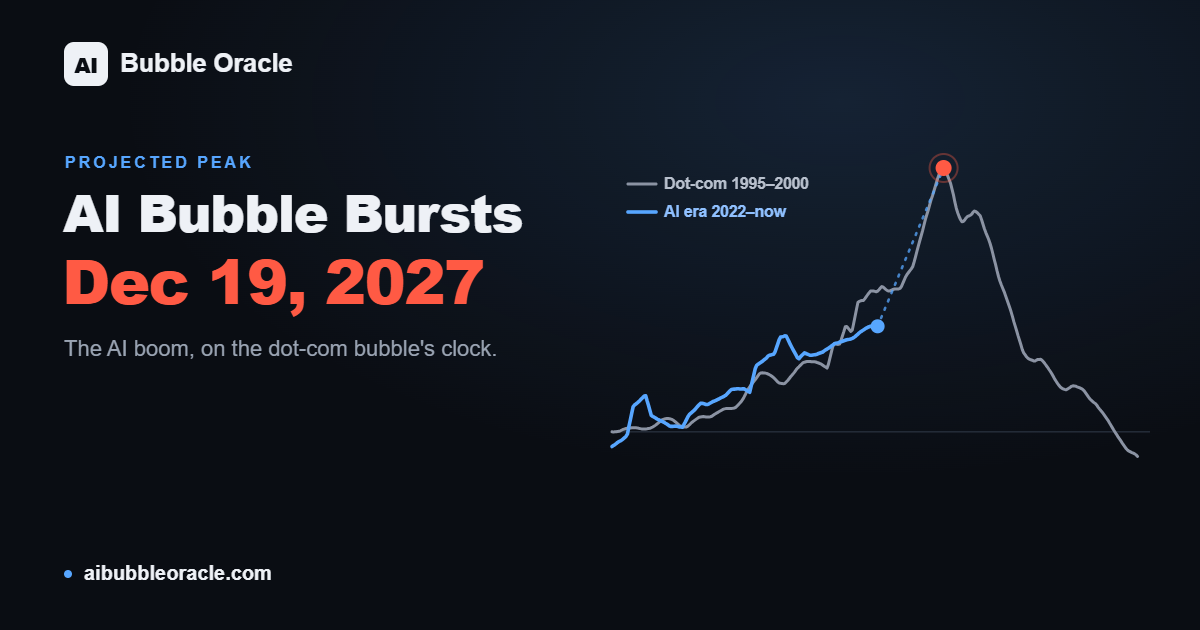
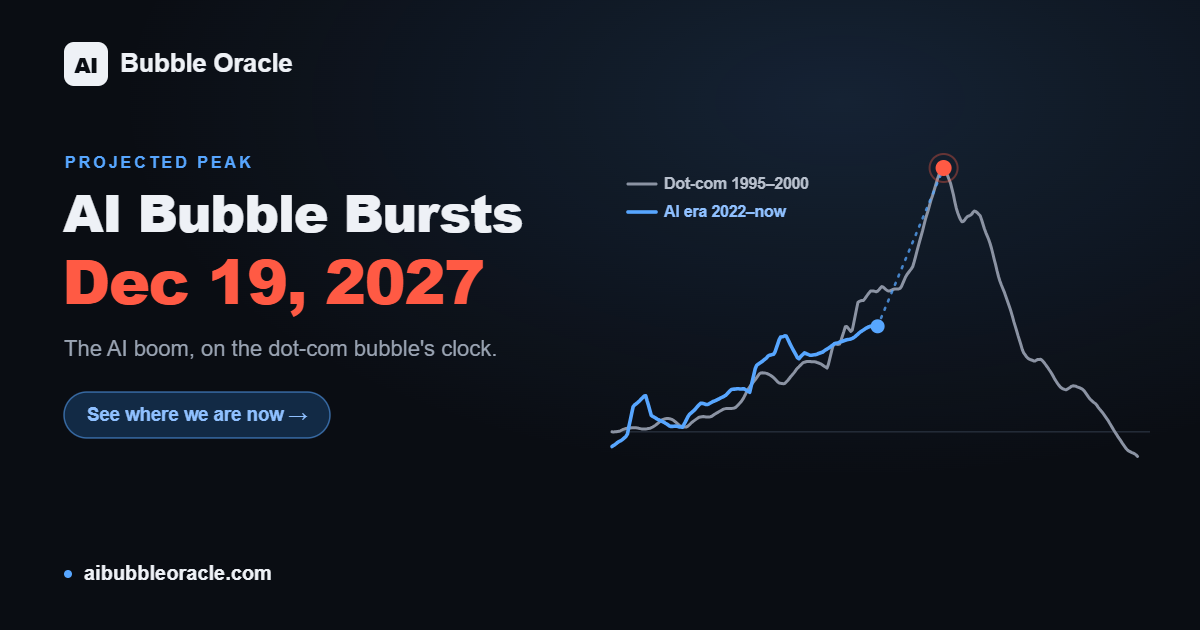
Trim over-length meta tags + add a call-to-action to the share card
opengraph.xyz flagged the landing page's title (65ch) and descriptions
(173/176ch) as truncation-prone. Shorten to safe lengths:
- title 65 -> 51 ("AI Bubble Oracle: the dot-com clock for the AI boom")
- meta description 173 -> 137
- og/twitter description 176 -> 103 ("...When does the analogy peak?")

Add a "See where we are now" CTA pill to og-card.py so the shared image has
an explicit call-to-action (the inspector's fourth note). Regenerated
og-image.png.

verify-pages and check green.

Changed region(s): [[0.0308, 0.6032, 0.2775, 0.7238]]

diff --git a/oracle/thennow_template.html b/oracle/thennow_template.html
@@ -3,12 +3,12 @@
 <head>
 <meta charset="utf-8">
 <meta name="viewport" content="width=device-width, initial-scale=1">
-<title>AI Bubble Oracle: Then and Now, the dot-com clock for the AI boom</title>
-<meta name="description" content="A transparent, reproducible comparison of the AI boom to the dot-com bubble, across valuation, concentration, capex, and monetary signals, projecting when the analogy peaks.">
+<title>AI Bubble Oracle: the dot-com clock for the AI boom</title>
+<meta name="description" content="A transparent, reproducible comparison of the AI boom to the dot-com bubble across valuation, concentration, capex, and monetary signals.">
 <meta property="og:type" content="website">
 <meta property="og:site_name" content="AI Bubble Oracle">
 <meta property="og:title" content="Is the AI boom the dot-com bubble again?">
-<meta property="og:description" content="A transparent, reproducible comparison of the AI boom to the dot-com bubble. Twelve market signals, measured the same way across both cycles, projecting when the analogy peaks.">
+<meta property="og:description" content="The AI boom vs the dot-com bubble, tracked the same way across both cycles. When does the analogy peak?">
 <meta property="og:url" content="https://aibubbleoracle.com/">
 <link rel="canonical" href="https://aibubbleoracle.com/">
 <meta property="og:image" content="https://aibubbleoracle.com/og-image.png">
@@ -19,7 +19,7 @@
 <meta name="twitter:site" content="@BigBandaid2">
 <meta name="twitter:creator" content="@BigBandaid2">
 <meta name="twitter:title" content="Is the AI boom the dot-com bubble again?">
-<meta name="twitter:description" content="Twelve market signals, measured the same way across both cycles, projecting when the dot-com analogy peaks.">
+<meta name="twitter:description" content="The AI boom vs the dot-com bubble, tracked the same way across both cycles. When does the analogy peak?">
 <meta name="twitter:image" content="https://aibubbleoracle.com/og-image.png">
 <style>
   :root {

diff --git a/thennow.html b/thennow.html
@@ -3,12 +3,12 @@
 <head>
 <meta charset="utf-8">
 <meta name="viewport" content="width=device-width, initial-scale=1">
-<title>AI Bubble Oracle: Then and Now, the dot-com clock for the AI boom</title>
-<meta name="description" content="A transparent, reproducible comparison of the AI boom to the dot-com bubble, across valuation, concentration, capex, and monetary signals, projecting when the analogy peaks.">
+<title>AI Bubble Oracle: the dot-com clock for the AI boom</title>
+<meta name="description" content="A transparent, reproducible comparison of the AI boom to the dot-com bubble across valuation, concentration, capex, and monetary signals.">
 <meta property="og:type" content="website">
 <meta property="og:site_name" content="AI Bubble Oracle">
 <meta property="og:title" content="Is the AI boom the dot-com bubble again?">
-<meta property="og:description" content="A transparent, reproducible comparison of the AI boom to the dot-com bubble. Twelve market signals, measured the same way across both cycles, projecting when the analogy peaks.">
+<meta property="og:description" content="The AI boom vs the dot-com bubble, tracked the same way across both cycles. When does the analogy peak?">
 <meta property="og:url" content="https://aibubbleoracle.com/">
 <link rel="canonical" href="https://aibubbleoracle.com/">
 <meta property="og:image" content="https://aibubbleoracle.com/og-image.png">
@@ -19,7 +19,7 @@
 <meta name="twitter:site" content="@BigBandaid2">
 <meta name="twitter:creator" content="@BigBandaid2">
 <meta name="twitter:title" content="Is the AI boom the dot-com bubble again?">
-<meta name="twitter:description" content="Twelve market signals, measured the same way across both cycles, projecting when the dot-com analogy peaks.">
+<meta name="twitter:description" content="The AI boom vs the dot-com bubble, tracked the same way across both cycles. When does the analogy peak?">
 <meta name="twitter:image" content="https://aibubbleoracle.com/og-image.png">
 <style>
   :root {

diff --git a/oracle/ogcard.py b/oracle/ogcard.py
@@ -81,6 +81,10 @@ def build_svg(payload):
   <text x="62" y="304" font-size="62" font-weight="800" fill="#ff5a44" letter-spacing="-1.6">{date}</text>
   <text x="64" y="356" font-size="22" font-weight="400" fill="#9aa4b3">The AI boom, on the dot-com bubble's clock.</text>
 
+  <!-- call to action -->
+  <rect x="64" y="392" width="266" height="46" rx="23" fill="#122a45" stroke="#57a6ff" stroke-opacity="0.55" stroke-width="1.5"/>
+  <text x="197" y="421" text-anchor="middle" font-size="18.5" font-weight="700" fill="#8fc0ff">See where we are now  &#8594;</text>
+
   <!-- footer -->
   <circle cx="68" cy="574" r="4" fill="#57a6ff"/>
   <text x="84" y="580" font-size="20" font-weight="600" fill="#eef1f6">aibubbleoracle.com</text>